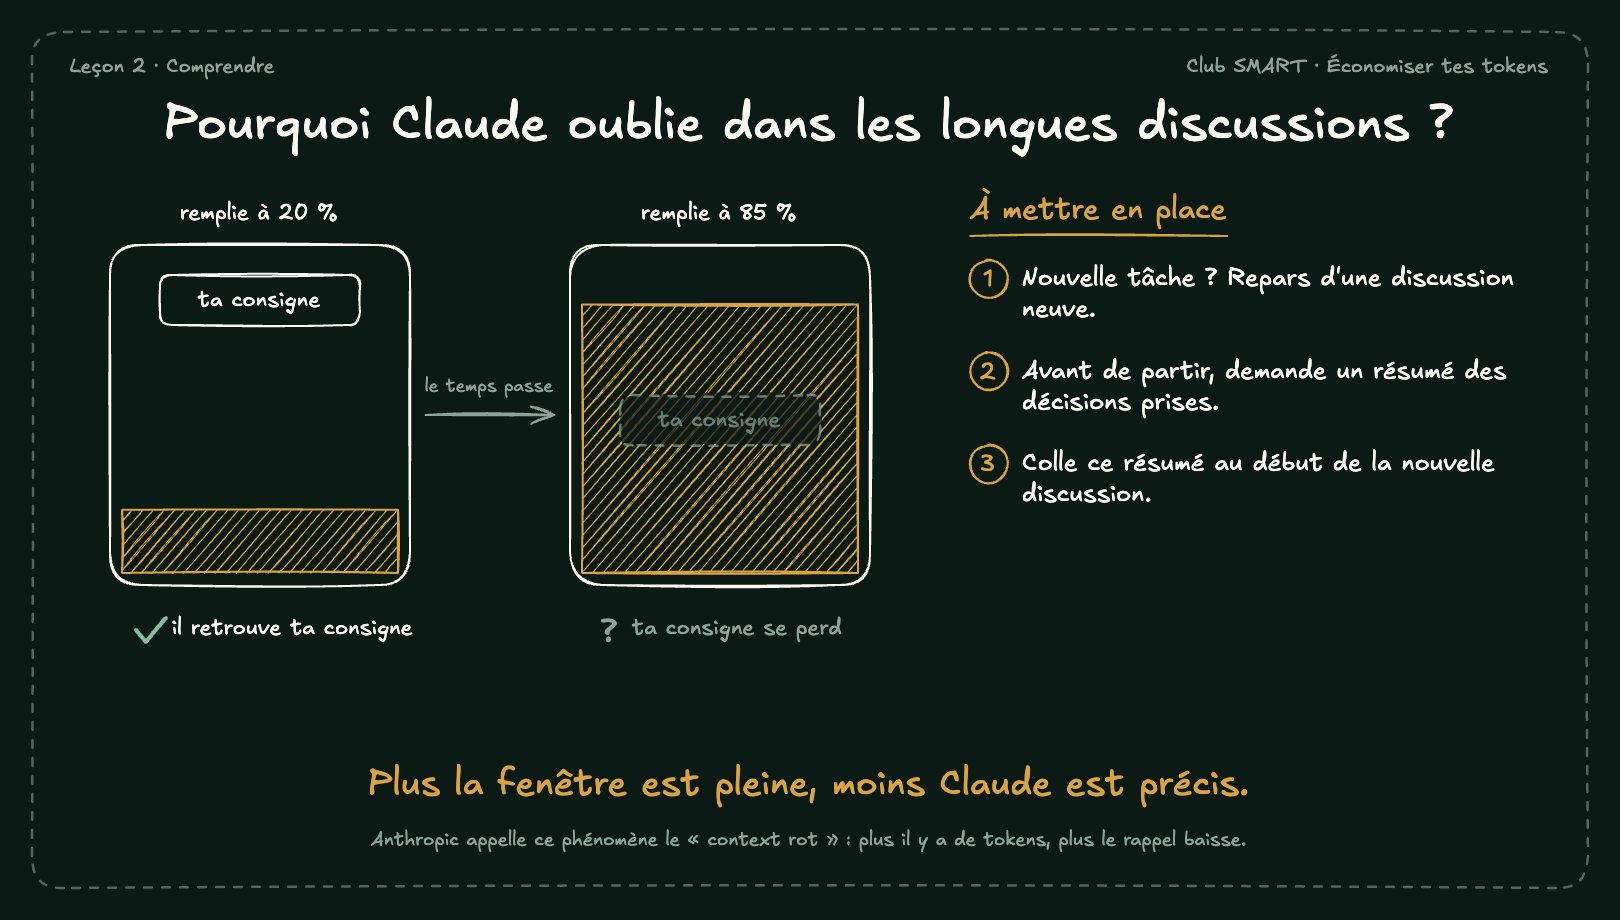
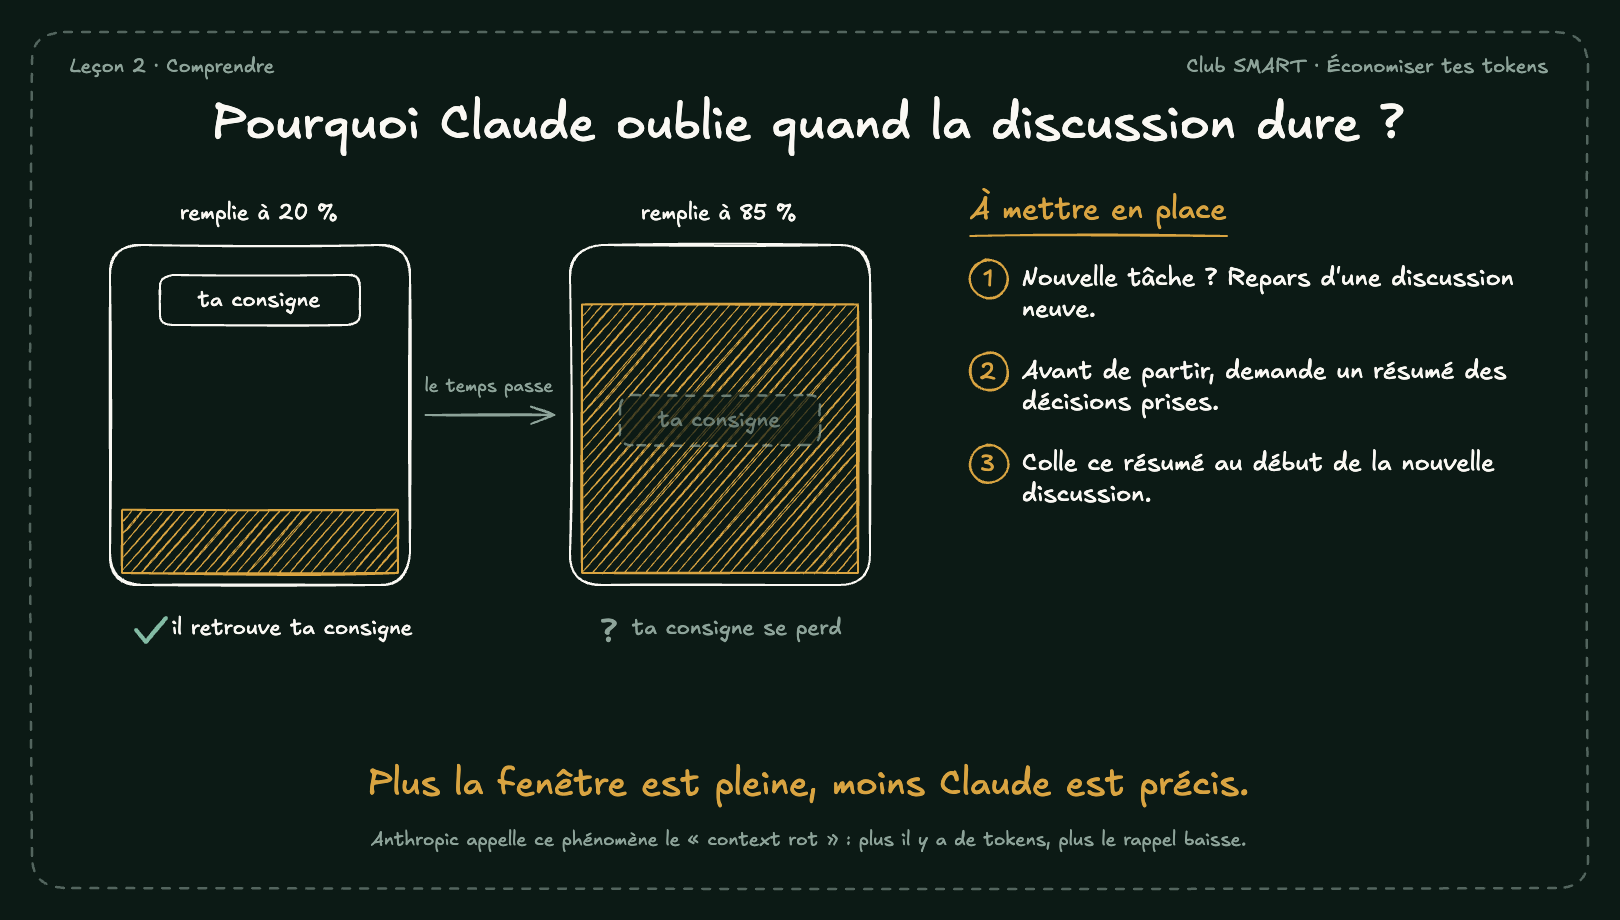
Travail du 24 octobre : rangement, schéma du context rot, fiches atelier et routine Skool
- Rangement de nuit : inbox vidée, point du jour, questions en attente, vue idee générée.
- Club SMART : schéma de la leçon 2 « context rot » remplacé.
- Consulting : fiche « relancer les ateliers » ; operations : routine classrooms Skool.
- Journal : décisions du plafond d'AGENTS.md et des types newsletter et atelier ; clôture de session.
- Réglages Obsidian (sans le workspace).

diff --git a/outbox/index.html b/outbox/index.html
@@ -25,6 +25,7 @@ ol { margin: 0; padding-left: 18px; } li { margin-bottom: 4px; } code { font-siz
 <table>
 <thead><tr><th>Date</th><th>Quoi</th><th>Fichier</th><th>Statut</th></tr></thead>
 <tbody id="lignes">
+<tr><td>2026-10-24</td><td>Point du jour</td><td><a href="points/2026-10-24.md">2026-10-24.md</a></td><td></td></tr>
 <tr><td>2026-10-23</td><td>La méthode de 4 chaînes de référence comparée étape par étape, reliée aux trois objectifs, avec une checklist de script</td><td><a href="../domaines/contenu/matrice-methodes-youtube.md">domaines/contenu/matrice-methodes-youtube.md</a></td><td>a-valider</td></tr>
 <tr><td>2026-10-23</td><td>Méthode en 8 étapes pour analyser une vidéo concurrente, tirée de la façon dont les 4 chaînes de référence étudient les autres</td><td><a href="../domaines/contenu/grille-analyse-concurrents.md">domaines/contenu/grille-analyse-concurrents.md</a></td><td>a-valider</td></tr>
 <tr><td>2026-10-23</td><td>Module de 22 leçons pour le Club SMART, économiser ses tokens avec Claude, d&#x27;après la vidéo ARMS de Jay E</td><td><a href="../domaines/communaute/economiser-tes-tokens/economiser-tes-tokens.md">domaines/communaute/economiser-tes-tokens/economiser-tes-tokens.md</a></td><td>a-valider</td></tr>
@@ -58,7 +59,7 @@ ol { margin: 0; padding-left: 18px; } li { margin-bottom: 4px; } code { font-siz
 <thead><tr><th>Process</th><th>Étapes · skill · ce qu'on décide (qui)</th><th>Derniers passages</th></tr></thead>
 <tbody id="processus">
 <tr><td><a href="../processus/installation.md">installation</a><br><span class="qui">operations · à la demande, une fois après le clonage</span></td><td><ol><li>Préparer son profil, avant l&#x27;atelier · <code>grill-me</code> · chaque réponse, ou « À définir » <span class="qui">(toi)</span></li><li>Récupérer le socle et déposer le profil dans <code>inbox/</code> · <code>installation</code> · le dossier où installer <span class="qui">(toi)</span></li><li>Reprendre le profil, bloc par bloc · <code>installation</code> · garder ou corriger chaque bloc <span class="qui">(toi)</span></li><li>Poser les questions restantes · <code>grill-me</code> · chaque réponse, ou « À définir » <span class="qui">(toi)</span></li><li>Créer les routeurs, les domaines et les projets · <code>installation</code> <span class="qui">(l&#x27;IA)</span></li><li>Vérifier le workspace · <code>installation</code> <span class="qui">(l&#x27;IA)</span></li></ol></td><td>—</td></tr>
-<tr><td><a href="../processus/rangement.md">rangement</a><br><span class="qui">operations · routine, chaque nuit à 2 h ; ou à la demande</span></td><td><ol><li>Archiver les points du jour cochés ou vieux de plus de 7 jours · <code>rangement</code> <span class="qui">(l&#x27;IA)</span></li><li>Écrire une fiche pour le texte brut, les liens et les fichiers sans en-tête · <code>fiche</code> · ce que dit la fiche <span class="qui">(l&#x27;IA)</span></li><li>Donner ses métadonnées à chaque élément ; <code>ranger.py</code> le range · <code>classer</code> · le type, le domaine, le statut, le projet ; dans le doute, une question pour la journée <span class="qui">(l&#x27;IA)</span></li><li>Écrire le point du jour · <code>rangement</code> · ce qui mérite ton attention <span class="qui">(l&#x27;IA)</span></li><li>Répondre aux questions en attente · <code>classer</code> · chaque réponse, ou « plus tard » <span class="qui">(toi)</span></li><li>Lire le point du jour · valider, corriger ou cocher <span class="qui">(toi)</span></li></ol></td><td>—</td></tr>
+<tr><td><a href="../processus/rangement.md">rangement</a><br><span class="qui">operations · routine, chaque nuit à 2 h ; ou à la demande</span></td><td><ol><li>Archiver les points du jour cochés ou vieux de plus de 7 jours · <code>rangement</code> <span class="qui">(l&#x27;IA)</span></li><li>Écrire une fiche pour le texte brut, les liens et les fichiers sans en-tête · <code>fiche</code> · ce que dit la fiche <span class="qui">(l&#x27;IA)</span></li><li>Donner ses métadonnées à chaque élément ; <code>ranger.py</code> le range · <code>classer</code> · le type, le domaine, le statut, le projet ; dans le doute, une question pour la journée <span class="qui">(l&#x27;IA)</span></li><li>Écrire le point du jour · <code>rangement</code> · ce qui mérite ton attention <span class="qui">(l&#x27;IA)</span></li><li>Répondre aux questions en attente · <code>classer</code> · chaque réponse, ou « plus tard » <span class="qui">(toi)</span></li><li>Lire le point du jour · valider, corriger ou cocher <span class="qui">(toi)</span></li></ol></td><td>2026-10-24 · 2 rangés, 8 questions</td></tr>
 </tbody>
 </table>
 <h2>Skills</h2>

diff --git a/journal/clotures/vues-idees-sauvegarde-26-10.md b/journal/clotures/vues-idees-sauvegarde-26-10.md
@@ -1,0 +1,38 @@
+---
+type: cloture
+resume: Bilan de session, des vues du socle aux idées « un jour, peut-être », à la sauvegarde de nuit vers prive et aux types newsletter et atelier
+cree: 2026-10-24
+maj: 2026-10-24
+liens: [../../AGENTS.md, ../../systeme/routines.md, ../../systeme/metadonnees.md, ../../vues/_index.md]
+---
+# Vues, idées et sauvegarde de nuit
+
+## Périmètre
+Appliquer une consigne en étapes de Thomas : récupérer le socle (les vues), ranger les idées « un jour, peut-être », mettre en place la sauvegarde de nuit vers `prive`. Thomas a d'abord collé une ancienne version (5 étapes), puis la bonne (4 étapes, où le plafond et la routine viennent du socle) : le résultat est le même.
+
+## Réalisé
+- Socle récupéré deux fois : les vues (PR #20 à #22, `f438dc7`), puis le plafond du rangement, la sauvegarde de nuit et le plafond d'`AGENTS.md` (PR #23 à #25, `36b292a`). Conflits : les sections de Thomas dans `AGENTS.md` gardées, « Où chercher » et la règle 6 pris du socle ; dans `systeme/routines.md`, ses lignes plus celles du socle.
+- PR [#25](https://github.com/thomrichard/aios-V2/pull/25) au socle : `verifier.py` ne compte plus la carte ni les projets actifs dans le plafond d'`AGENTS.md`.
+- Idées : type `idee`, champ `ressortir`, section « Idées » d'`AGENTS.md` (5 lignes). `systeme/idees.md`, écrit la veille par une autre session et jamais commité, est archivé dans `archives/systeme/`.
+- Rangement : plafond de 20 éléments par nuit.
+- Sauvegarde de nuit : ligne dans `systeme/routines.md`, autorisation dans `journal/decisions.md`, essai à la main réussi sans mot de passe (`f605495`, sur `prive`), `~/Library/LaunchAgents/com.sm4rt.sauvegarde-de-nuit.plist` chargé pour 3 h, ligne « en place ».
+- Types `newsletter` et `atelier` ; `perso` couvre aussi la maison et les projets perso.
+- Dossier `AIOSV2/` supprimé : un coffre Obsidian créé par erreur. Pour ouvrir le workspace, c'est « Ouvrir un dossier comme coffre ».
+- Commits : `f438dc7`, `36b292a`, `ce7e7b0`, `f605495`, `50b9ad8`, `a1e4587`, `c61f283`.
+
+## Décisions
+- R4 pousse chaque nuit `main` vers `prive`, sans demander.
+- Les règles des idées vivent dans `AGENTS.md`, leur liste est `vues/idee.md` (générée).
+- Le plafond d'`AGENTS.md` ne compte que le texte écrit à la main.
+- Types `newsletter` et `atelier` (une fiche par édition, domaine consulting).
+
+## Propositions non engagées
+- Relancer les ateliers : « on verra ».
+- Test de rangement, exploré sans rien créer : « modifier le logiciel de ma télé » → une idée dans perso ; « un sujet de newsletter sur les erreurs de débutant avec Claude » → une fiche `newsletter` au statut `sujet` dans contenu (le type n'existait pas encore) ; « refaire la page de vente de l'atelier cette semaine » → un projet, si les ateliers reprennent.
+
+## Limites
+- La CLI `claude` est déconnectée : le rangement de nuit a planté (OAuth expiré) et `outbox/points/` est vide. `claude auth login` attend dans le terminal de l'app.
+- La sauvegarde committe tout (`git add -A`) : un dossier ajouté par erreur à la racine part vers `prive`. `.env` reste écarté par le `.gitignore`.
+- Si le vérificateur bloque le commit, seuls les commits déjà faits partent.
+- Si le Mac dort à 3 h, launchd lance la sauvegarde au réveil, comme le rangement du 24 octobre (parti à 10 h 26).
+- `inbox/capture.md` contient des lignes en double, d'une session précédente.

diff --git a/journal/decisions.md b/journal/decisions.md
@@ -30,3 +30,5 @@ Ajout seul. Pour chaque décision : la date, la décision, pourquoi.
 - 2026-10-23 · Connecteurs : Kit passe par l'API v4 avec `systeme/scripts/kit.py`, en lecture seule ; le MCP de la communauté (`@dancumberland/kit-mcp`) et le connecteur Kit du compte sont retirés. Notion, Slack, Miro, Gamma, Otter, NotebookLM et Supabase (trois serveurs locaux et le connecteur du compte) sont débranchés. Vercel et Excalidraw sont gardés et inscrits ; HeyGen reste, en attendant d'être challengé. Pourquoi : un service, une seule connexion, la plus légère qui marche ; le MCP officiel de Kit demande un plan payant ; un connecteur qui ne sert pas chaque semaine est retiré. Écarté : garder le MCP de la communauté (un seul mainteneur, lancé en `@latest` avec une clé qui a tous les droits).
 - 2026-10-24 · R4 pousse chaque nuit `main` vers `prive` (`thomrichard/aios-thomas`) sans demander : la routine directe « Sauvegarde de nuit », à 3 h, fait `git add -A`, un commit « Sauvegarde de nuit », puis le push. Pourquoi : autorisation donnée par Thomas ; le travail du jour, rangement de 2 h compris, a une copie hors du Mac chaque nuit. Le socle public ne reçoit toujours jamais `main`.
 - 2026-10-24 · Les idées « un jour, peut-être » ont le type `idee` (statuts notee, en-reflexion, lancee, abandonnee) et le champ `ressortir` (un contexte, pas une date) ; leurs règles sont dans la section « Idées » d'`AGENTS.md`, leur liste est `vues/idee.md` (générée). Pourquoi : noter sans s'engager, et ressortir l'idée quand un projet, un contenu ou une offre s'en approche. Jamais dans le point du jour, pour ne pas le charger. Écarté : un fichier `systeme/idees.md` qui tenait la liste à la main.
+- 2026-10-24 · Le plafond de 150 lignes d'`AGENTS.md` ne compte plus les blocs générés (la carte des domaines et les projets actifs) : PR #25 du socle, dans `verifier.py`. Pourquoi : ces blocs grossissent seuls à chaque projet, et la section « Idées » faisait passer le fichier à 159 lignes, dont 19 générées. Écarté : relever le plafond à 170 (l'alerte serait revenue avec les projets) ; raccourcir les sections de Thomas.
+- 2026-10-24 · Deux types en plus : `newsletter` (un numéro, du sujet à l'envoi, mêmes statuts que `video`) et `atelier` (une fiche par édition, datée, dans le domaine consulting : l'offre, la page de vente, les dates, les inscrits). `perso` couvre aussi la maison et les projets perso. Pourquoi : les sujets de newsletter n'avaient pas de place hors de Kit ; le type atelier est prêt pour une relance. La relance des ateliers elle-même n'est pas décidée.

diff --git a/inbox/capture.md b/inbox/capture.md
@@ -2,11 +2,9 @@
 
 Une idée par ligne. Une consigne facultative après « consigne : ».
 
-- Commiter les trois scripts Skool du toolkit (`skool_images.py`, `skool_pousser_module.py`, `skool_tirer_classrooms.py`), dans `~/Dev/skool-toolkit`. consigne : à reprendre, Thomas n'a pas encore répondu
 - Rapatrier dans l'AIOS les fichiers joints aux leçons Skool (PDF, skills en Markdown, transcriptions, un zip) : les fiches des classrooms n'en donnent que le titre et le nom. consigne : à reprendre, sur demande de Thomas
 - Messages privés en masse : la skill `skool-ops` garde la validation de Thomas avant l'envoi, alors qu'il a donné la main entière sur Skool. Lui demander s'il veut l'enlever. consigne : à reprendre
-- Classroom « Agentic AI » en brouillon : Thomas la relit, puis on la publie. Le schéma de la leçon 2 porte encore l'ancien titre long : le régénérer avec `generateur/` et remplacer l'image sur Skool si besoin. consigne : à reprendre
 - La palette de la skill `excalidraw-diagram` est obsolète (ancienne charte) ; proposition : en faire un « mode tableau » à partir du générateur `domaines/communaute/economiser-tes-tokens/generateur/`. consigne : à reprendre, à proposer dans calibrate
-- Routine directe qui rafraîchirait chaque semaine les classrooms Skool dans l'AIOS (`skool_tirer_classrooms.py --remplacer`) : explorée, pas décidée. consigne : à reprendre si Thomas la veut
 - Avant d'archiver `~/IA-OS` : aios-hub (`~/IA-OS/Dev/aios-hub`, lancé par launchd sous `caffeinate -s`) garde le Mac éveillé la nuit. Sans lui, les routines de nuit du V2 risquent de ne partir qu'au réveil : trouver un remplaçant avant d'archiver. consigne : à reprendre, avant l'archivage d'IA-OS
 - Ancien log `~/IA-OS/.scripts/skool-churn-daily.log` : le cookie Skool y est masqué, pas vidé. Le vider en entier si Thomas le veut. consigne : à reprendre, sur demande de Thomas
+- Connexion de la CLI `claude` : `claude auth status` dit `loggedIn: false`, donc le rangement de nuit plante (« OAuth session expired », log `~/Library/Logs/sm4rt-rangement.log`, 24/10 à 10 h 26) et `outbox/points/` reste vide. `claude auth login` a été lancé dans le terminal de l'app ; il reste à se connecter dans le navigateur et à coller le code. consigne : à reprendre, vérifier `claude auth status`, puis relancer `python3 systeme/scripts/lancer.py rangement` si Thomas le veut

diff --git a/domaines/communaute/economiser-tes-tokens/_images.md b/domaines/communaute/economiser-tes-tokens/_images.md
@@ -5,7 +5,7 @@ Une ligne par image. Cet index fait foi pour les images du dossier : écris la l
 | Fichier | Ce qu'elle montre | Origine | Sert à |
 |---|---|---|---|
 | `01-pourquoi-chaque-message-coute-plus-cher.png` | Leçon 1, Pourquoi chaque message coûte plus cher ? : visuel, trois étapes, phrase à retenir | Généré par Claude le 2026-10-23, source `01-pourquoi-chaque-message-coute-plus-cher.excalidraw` | Image de la leçon 1 dans Skool |
-| `02-le-context-rot.png` | Leçon 2, Pourquoi Claude oublie quand la discussion dure ? : visuel, trois étapes, phrase à retenir | Généré par Claude le 2026-10-23, source `02-le-context-rot.excalidraw` | Image de la leçon 2 dans Skool |
+| `02-le-context-rot.png` | Leçon 2, Pourquoi Claude oublie quand la discussion dure ? : visuel, trois étapes, phrase à retenir | Généré par Claude le 2026-10-23, régénéré le 2026-10-24 avec le titre court, source `02-le-context-rot.excalidraw` | Image de la leçon 2 dans Skool |
 | `03-le-cache-de-prompt.png` | Leçon 3, C'est quoi, le cache ? : visuel, trois étapes, phrase à retenir | Généré par Claude le 2026-10-23, source `03-le-cache-de-prompt.excalidraw` | Image de la leçon 3 dans Skool |
 | `04-compacter-avec-une-intention.png` | Leçon 4, Compacter, oui. Mais avec une intention. : visuel, trois étapes, phrase à retenir | Généré par Claude le 2026-10-23, source `04-compacter-avec-une-intention.excalidraw` | Image de la leçon 4 dans Skool |
 | `05-garder-le-cache-chaud.png` | Leçon 5, Garder le cache chaud : utile ou pas ? : visuel, trois étapes, phrase à retenir | Généré par Claude le 2026-10-23, source `05-garder-le-cache-chaud.excalidraw` | Image de la leçon 5 dans Skool |

diff --git a/outbox/questions.md b/outbox/questions.md
@@ -3,3 +3,10 @@
 Ce que le rangement n'a pas su classer seul. Une ligne par élément : `- AAAA-MM-JJ · <chemin> · <la question> · proposition : <…>`. L'élément attend dans l'inbox.
 
 Pour répondre, dis « réponds aux questions du rangement » : la skill `classer` les reprend une à une.
+
+- 2026-10-24 · inbox/capture.md (pièces jointes des leçons Skool) · Tu veux rapatrier dans l'AIOS les fichiers joints aux leçons (PDF, skills, transcriptions, zip) ? · proposition : sinon, une idée (idee, communaute)
+- 2026-10-24 · inbox/capture.md (messages privés en masse) · Tu enlèves ta validation avant un envoi de messages privés en masse sur Skool ? · proposition : une décision ; si oui, `calibrate` change la skill `skool-ops`
+- 2026-10-24 · inbox/capture.md (palette d'excalidraw-diagram) · La skill vit hors du workspace (`~/.claude/skills/`) : je mets ce retour où ? · proposition : le garder pour `calibrate`, ou créer un « mode tableau » dans la skill
+- 2026-10-24 · inbox/capture.md (aios-hub avant d'archiver IA-OS) · On en fait un projet « archiver IA-OS », avec cette tâche (trouver qui garde le Mac éveillé la nuit) ? · proposition : projet, operations
+- 2026-10-24 · inbox/capture.md (ancien log Skool d'IA-OS) · Je vide en entier `~/IA-OS/.scripts/skool-churn-daily.log` ? · proposition : une décision, rien à classer
+- 2026-10-24 · inbox/capture.md (connexion de la CLI claude) · `claude auth status` dit toujours `loggedIn: false`. Tu finis la connexion dans un terminal ? · proposition : une action pour Thomas ; ensuite, je vérifie et la ligne part aux archives

diff --git a/outbox/points/2026-10-24.md b/outbox/points/2026-10-24.md
@@ -1,0 +1,22 @@
+- [ ] Lu
+
+# Point du jour · 2026-10-24
+
+Rangement fait en journée, dans une session : celui de 2 h a échoué (voir « À regarder »).
+
+## Rangé cette nuit
+- [Relancer les ateliers](../../domaines/consulting/relancer-les-ateliers.md) : idée, consulting
+- [Routine des classrooms Skool](../../domaines/operations/routine-classrooms-skool.md) : idée, operations
+
+## Questions en attente
+8 questions : [outbox/questions.md](../questions.md). Les 8 lignes attendent dans `inbox/capture.md`.
+
+## Routines
+- 2026-10-23 · routine jeton-skool | jeton vérifié, session : 312 j
+- 2026-10-23 · routine revenus-skool | registre refait, dernier mois complet : 468,00 $ HT (septembre 2026)
+- 2026-10-23 · routine jeton-skool | jeton vérifié, session : 312 j
+- 2026-10-24 · routine jeton-skool | jeton vérifié, session : 312 j
+
+## À regarder
+- Rangement de nuit en échec : parti à 10 h 26 au lieu de 2 h, arrêté sur « OAuth session expired » (`~/Library/Logs/sm4rt-rangement.log`). `claude auth status` dit `loggedIn: false`.
+- `AGENTS.md` : la prochaine étape de `socle-aios-membres` et de `video-brevo` est « À définir ».

diff --git a/archives/inbox/2026-10/capture.md b/archives/inbox/2026-10/capture.md
@@ -1,0 +1,8 @@
+# Capture archivée · 2026-10
+
+Les lignes de `inbox/capture.md` une fois rangées.
+
+- Routine directe qui rafraîchirait chaque semaine les classrooms Skool dans l'AIOS (`skool_tirer_classrooms.py --remplacer`) : explorée, pas décidée. consigne : à reprendre si Thomas la veut
+- Relancer les ateliers : Thomas a dit « on verra » le 24/10 ; le type `atelier` est prêt. consigne : probablement une idée (type `idee`, domaine consulting, ressortir : quand on parle d'offres ou des revenus du consulting)
+- Commiter les trois scripts Skool du toolkit (`skool_images.py`, `skool_pousser_module.py`, `skool_tirer_classrooms.py`), dans `~/Dev/skool-toolkit`. consigne : à reprendre, Thomas n'a pas encore répondu
+- Classroom « Agentic AI » en brouillon : Thomas la relit, puis on la publie. Le schéma de la leçon 2 porte encore l'ancien titre long : le régénérer avec `generateur/` et remplacer l'image sur Skool si besoin. consigne : à reprendre

diff --git a/journal/log.md b/journal/log.md
@@ -38,3 +38,6 @@ Ajout seul. Format : `- AAAA-MM-JJ · <action> | <sujet>`
 - 2026-10-24 · routine jeton-skool | jeton vérifié, session : 312 j
 - 2026-10-24 · réglage | type newsletter (sujet, en-cours, a-valider, publie) ; perso couvre aussi la maison et les projets perso ; systeme/idees.md part dans archives/
 - 2026-10-24 · réglage | type atelier (a-preparer, en-vente, termine, annule), une fiche par édition, pour la relance des ateliers
+- 2026-10-24 · close | session vues, idées et sauvegarde de nuit : socle récupéré (PR #20 à #25), types idee, newsletter et atelier, sauvegarde vers prive en place
+- 2026-10-24 · processus rangement | 2 rangés, 8 questions
+- 2026-10-24 · skool | schéma de la leçon 2 « Pourquoi Claude oublie quand la discussion dure ? » remplacé, avec le titre court https://www.skool.com/club-smart/classroom/17480787?md=d86dccce69244ce9be771bd364ca5995

diff --git a/vues/cloture.md b/vues/cloture.md
@@ -6,5 +6,6 @@ Tous les fichiers de type `cloture`, tous domaines confondus. Le bilan d'une ses
 
 | Fichier | Résumé | Statut | Maj |
 |---|---|---|---|
+| [vues-idees-sauvegarde-26-10](../journal/clotures/vues-idees-sauvegarde-26-10.md) | Bilan de session, des vues du socle aux idées « un jour, peut-être », à la sauvegarde de nuit vers prive et aux types newsletter et atelier |  | 2026-10-24 |
 | [skool-voix-depot-prive-26-10](../journal/clotures/skool-voix-depot-prive-26-10.md) | Bilan de session, de la connexion Skool à la skill skool-ops (voix et types de posts de Thomas) et au dépôt privé du V2 |  | 2026-10-23 |
 | [video-jay-tokens-agentic-ai-26-10](../journal/clotures/video-jay-tokens-agentic-ai-26-10.md) | Bilan de session, de la vidéo ARMS de Jay E au module Économiser tes tokens sur Skool et aux classrooms copiées dans l'AIOS |  | 2026-10-23 |

diff --git a/vues/idee.md b/vues/idee.md
@@ -1,0 +1,10 @@
+# vues · idee
+
+<!-- Généré par systeme/scripts/index.py : ne pas modifier à la main. -->
+
+Tous les fichiers de type `idee`, tous domaines confondus. Un truc que j'aimerais peut-être creuser un jour, sans engagement.
+
+| Fichier | Domaine | Résumé | Statut | Source | Ressortir | Maj |
+|---|---|---|---|---|---|---|
+| [relancer-les-ateliers](../domaines/consulting/relancer-les-ateliers.md) | consulting | Relancer les ateliers de groupe ; Thomas a dit « on verra » | notee | inbox/capture.md | quand on parle d'offres ou des revenus du consulting | 2026-10-24 |
+| [routine-classrooms-skool](../domaines/operations/routine-classrooms-skool.md) | operations | Une routine directe qui rafraîchirait chaque semaine les classrooms Skool dans l'AIOS | notee | inbox/capture.md | quand on revoit les routines | 2026-10-24 |

diff --git a/vues/_index.md b/vues/_index.md
@@ -6,9 +6,10 @@ Une vue par type et par projet, générée depuis les en-têtes : tous les fichi
 
 | Vue | Ce qu'elle montre | Fichiers |
 |---|---|---|
-| [cloture](cloture.md) | Le bilan d'une session longue, écrit par la skill `close` | 2 |
+| [cloture](cloture.md) | Le bilan d'une session longue, écrit par la skill `close` | 3 |
 | [concept](concept.md) | Une connaissance durable | 4 |
 | [entretien](entretien.md) | La fiche d'un entretien `grill-me` | 1 |
+| [idee](idee.md) | Un truc que j'aimerais peut-être creuser un jour, sans engagement | 2 |
 | [livrable](livrable.md) | Ce qu'on remet à quelqu'un, texte ou visuel | 2 |
 | [okr](okr.md) | Les objectifs et résultats clés du trimestre | 1 |
 | [processus](../processus/_index.md) | Une suite de skills qui revient | 2 |
